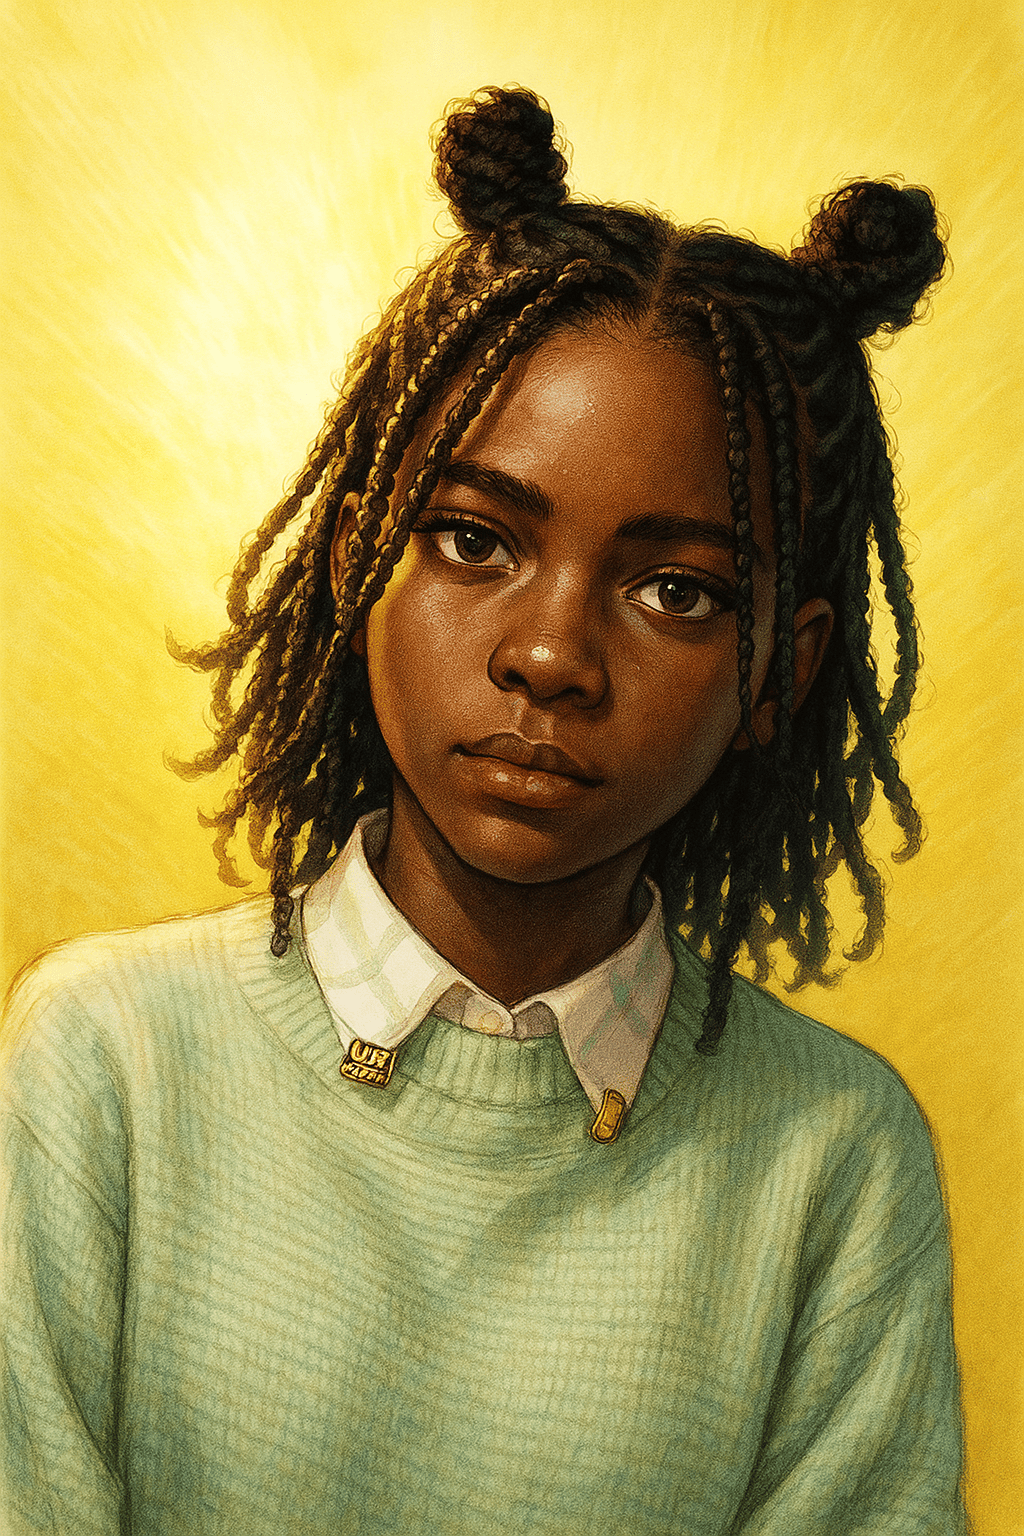
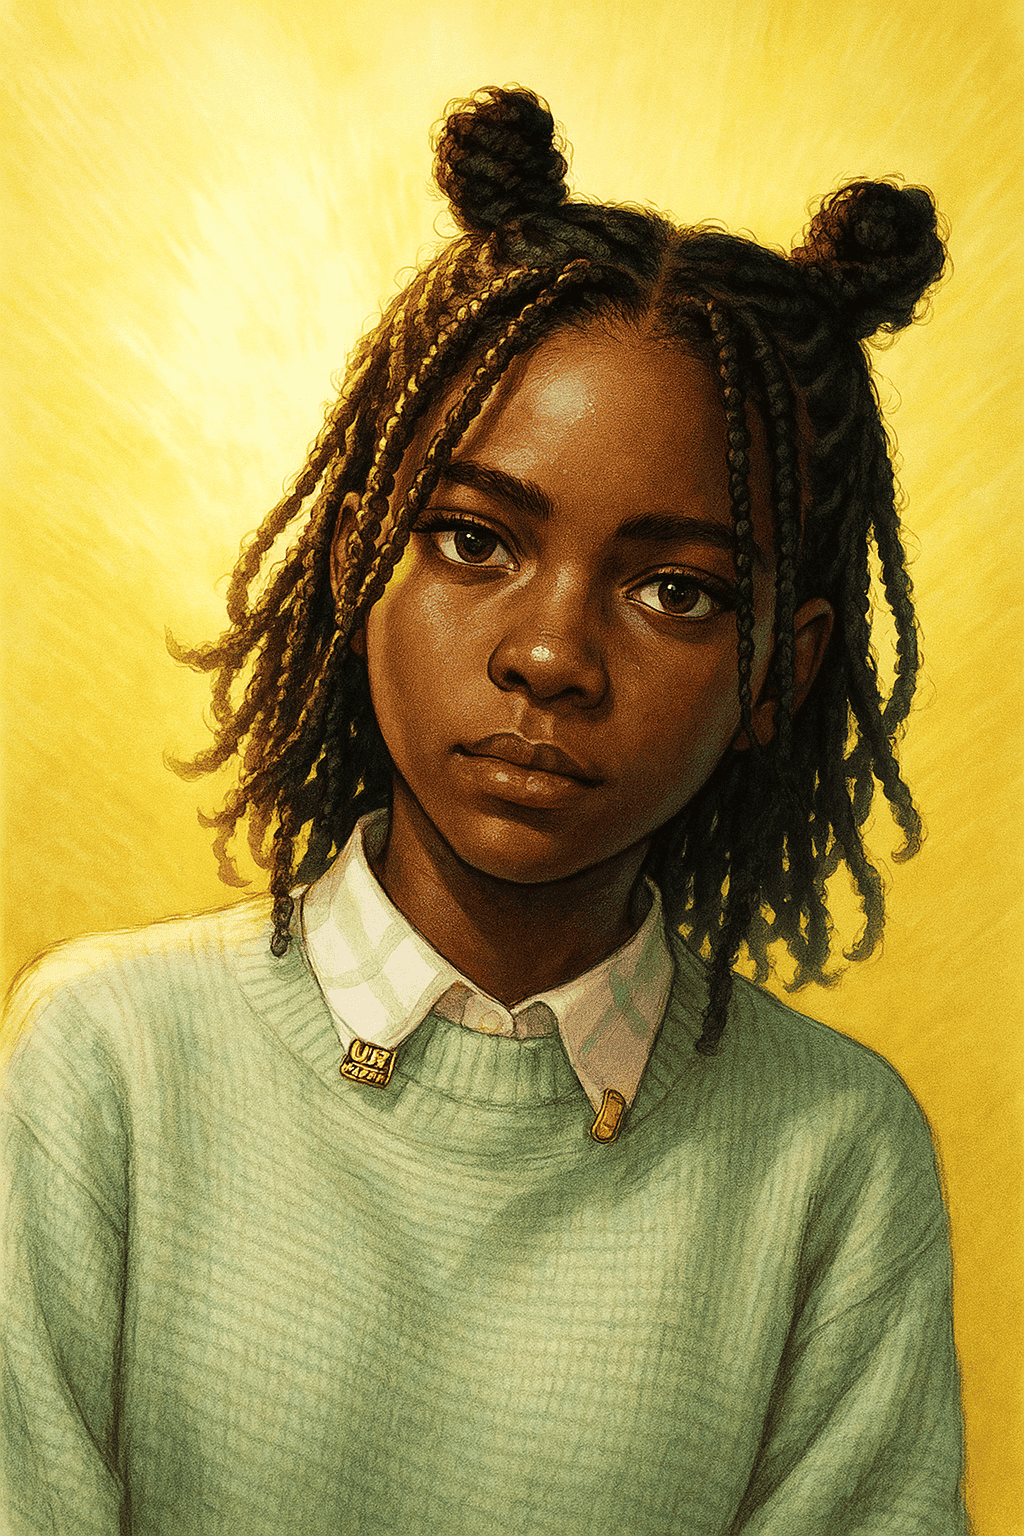
modife

diff --git a/index.html b/index.html
@@ -28,11 +28,11 @@
         </nav>
     </header>
     <main>
-        <h1>Rudna Souka</h1>
+        <h2>Rudna Souka</h2>
 
         <section class="card">
             <h2>About Me</h2>
-            <img src="images/profiloicture.png" alt="profilpicture_ofp_rudna">
+            <img src="images/download.jpeg" alt="profilpicture_ofp_rudna" width="300" height="300">
             <p>Lorem ipsum dolor sit amet consectetur, adipisicing elit. Autem molestiae modi quae porro. Porro nihil
                 autem minus. Facere enim est voluptatem consequatur quia ipsam corrupti cum? Eos praesentium explicabo
                 repellendus recusandae natus quo officiis nulla totam adipisci eaque iusto omnis numquam consequatur
@@ -41,7 +41,7 @@
 
         <section class="card">
             <h2>Congo Brazzaville</h2>
-            <img src="images/flagofRepublicofheCongo.jpeg" alt="flag_of_Republic_of_the Congo">
+            <img src="images/flagofRepublicofheCongo.webp" alt="flag_of_Republic_of_the Congo" width="300" height="150">
             <p>Lorem ipsum dolor sit amet, consectetur adipisicing elit. Minima modi similique sunt eaque omnis, maiores
                 dolor architecto earum consequatur harum! Laudantium dolore ad nihil tempora maiores id, illo
                 repudiandae eius accusamus quis culpa, esse ex, doloremque quaerat. Tempora, alias inventore esse

diff --git a/styles/bases.css b/styles/bases.css
@@ -55,11 +55,13 @@ main {
     gap: 2rem
 }
 
-main h1 {
+main h2 {
     grid-column: 1 / -1;
+    font-size: 1.5rem;
     text-align: center;
     margin-bottom: 1rem;
     color: black;
+    font-weight: bold;
 }
 
 .card {
@@ -81,6 +83,7 @@ main h1 {
     text-align: center;
     margin-top: 10px;
     margin-bottom: 10px;
+    color: white;
 }
 
 .card p {
